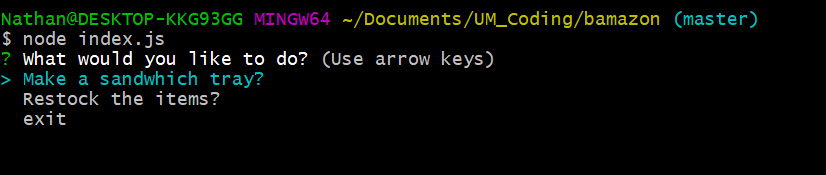
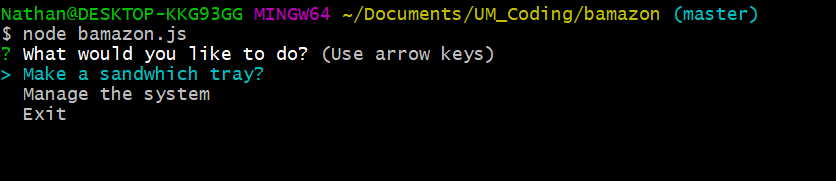
add manager function

Changed region(s): [[0.0, 0.0286, 0.9383, 0.7143]]

diff --git a/bamazon.js b/bamazon.js
@@ -40,7 +40,7 @@ function start() {
       message: "What would you like to do?",
       choices: [
         "Make a sandwhich tray?",
-        "Restock the items?",
+        "Manage the system",
         "Exit"
       ]
     })
@@ -50,14 +50,15 @@ function start() {
         makeSandwhich();
         break;
 
-      case "Restock the items?":
-        restock();
+      case "Manage the system":
+        password();
         break;
 
                
       case "Exit":
            console.log(" ")
-            console.log("\x1b[43m\x1b[30m","Thanks for your business!");
+            console.log("\x1b[43m\x1b[30m","Thanks for your business!")
+            console.log("\x1b[0m", " ")
         connection.end();
         break;
       }
@@ -518,9 +519,9 @@ function chooseCheese() {
       console.log('\nOrder receipt:');
       console.log(allAnswers);
       console.log(" ")
-      console.log("\x1b[33m%s\x1b[0m", " Your order Total is:  $" + (cost.toFixed(2)))
-      console.log(" ")
-      
+      console.log("\x1b[33m", " Your order Total is:  $" + (cost.toFixed(2)))
+      console.log("\x1b[0m", " ")
+          
 
       inquirer.prompt([
           {
@@ -537,7 +538,8 @@ function chooseCheese() {
             start();
           } else {
             console.log(" ")
-            console.log("\x1b[43m\x1b[30m","Thanks for your business!");
+            console.log("\x1b[43m\x1b[30m","Thanks for your business!")
+            console.log("\x1b[0m", " ")
           
             connection.end();
           }
@@ -566,7 +568,7 @@ function chooseCheese() {
           setTimeout(csv, 3000);
                
          console.log("Everything is fully stocked")
-         start()
+         manager()
         }
  
 
@@ -619,3 +621,79 @@ function chooseCheese() {
       });
       
     }
+
+    function password(){
+
+        inquirer
+          .prompt({
+            name: "password",
+            type: "password",
+            message: "Enter your manager password: 1234"
+           
+          })
+          .then(function(answer) {
+            if (answer.password === "1234"){
+                manager()
+
+            }
+
+        else{
+            console.log("Please try again")
+            password()
+        }
+
+            })
+    
+        };
+    
+    
+    
+    
+    
+    
+    function manager() {
+  
+        
+
+        inquirer
+          .prompt({
+            name: "action",
+            type: "list",
+            message: "What would you like to do?",
+            choices: [
+              "Check Stock",
+              "Restock the items?",
+              "Enter a sandwhich order"
+            ]
+          })
+          .then(function(answer) {
+            switch (answer.action) {
+            case "Check Stock":
+              checkStock();
+              break;
+      
+            case "Restock the items?":
+              restock();
+              break;
+      
+                     
+            case "Enter a sandwhich order":
+                start()
+              break;
+            }
+          });
+      }
+
+
+      function checkStock(){
+        var query = 'SELECT * FROM `products`';
+            connection.query(query, function (err, res, fields) {
+        for (var i = 0; i < res.length; i++) {
+            console.log("\nID: " + res[i].item_id + " || Product Name: " + res[i].product_name + " || Department Name: " + res[i].department_name + 
+            " || Price: " + res[i].price + " || Unit: " + res[i].UM + " || Stock Qty: " + res[i].stock_quantity) ;
+          }
+
+
+      })
+      manager()
+    };

diff --git a/README.md b/README.md
@@ -8,7 +8,6 @@
  
 
 
-
 This is an App that uses the CLI to ask the user some questions to build out sandwhich trays.  The front end is some simple questions using the inquirer package, and the backend uses mysql to hold the values that the user has choosen.
 
 On execution of the *node bamazon.js* the user has three choices.
@@ -18,20 +17,30 @@ On execution of the *node bamazon.js* the user has three choices.
 
 Make a sandwhich tray--runs the user through the app.
 
-Restock the items-drops the existing table values and reloads the default values from the CSV file.
-
-Exit- end the program
-
-Choosing make a sandwhich tray will start the user being asked questions about the type of Bread, Meat, Vegtables, Cheese, and Condiments that they would like for their sandwhich tray.
+Choosing *Make a sandwhich tray* will start the user being asked questions about the type of Bread, Meat, Vegtables, Cheese, and Condiments that they would like for their sandwhich tray.
 
  ![Second](https://github.com/olsonathan/bamazon/blob/master/second.PNG)
 
+
+
+![Fourth](https://github.com/olsonathan/bamazon/blob/master/fourth.PNG)
 
 once all the of the questions have been answered the user is given their total and asked if they would like to make another tray.
 
  
 
 ![Third](https://github.com/olsonathan/bamazon/blob/master/third.PNG)
+
+
+If the user choice is *Manage the system*.  The user will be asked the manager password and with the correct password will have choices to *Check Stock, Restock the items, or go back to the main menu*
+
+![Fifth]
+(https://github.com/olsonathan/bamazon/blob/master/Fifth.PNG)
+
+
+*Check Stock* will show all items on hand from the mysql database.
+*Restock the items* will recreate the mysql table from the CSV file.
+
 
 
 
